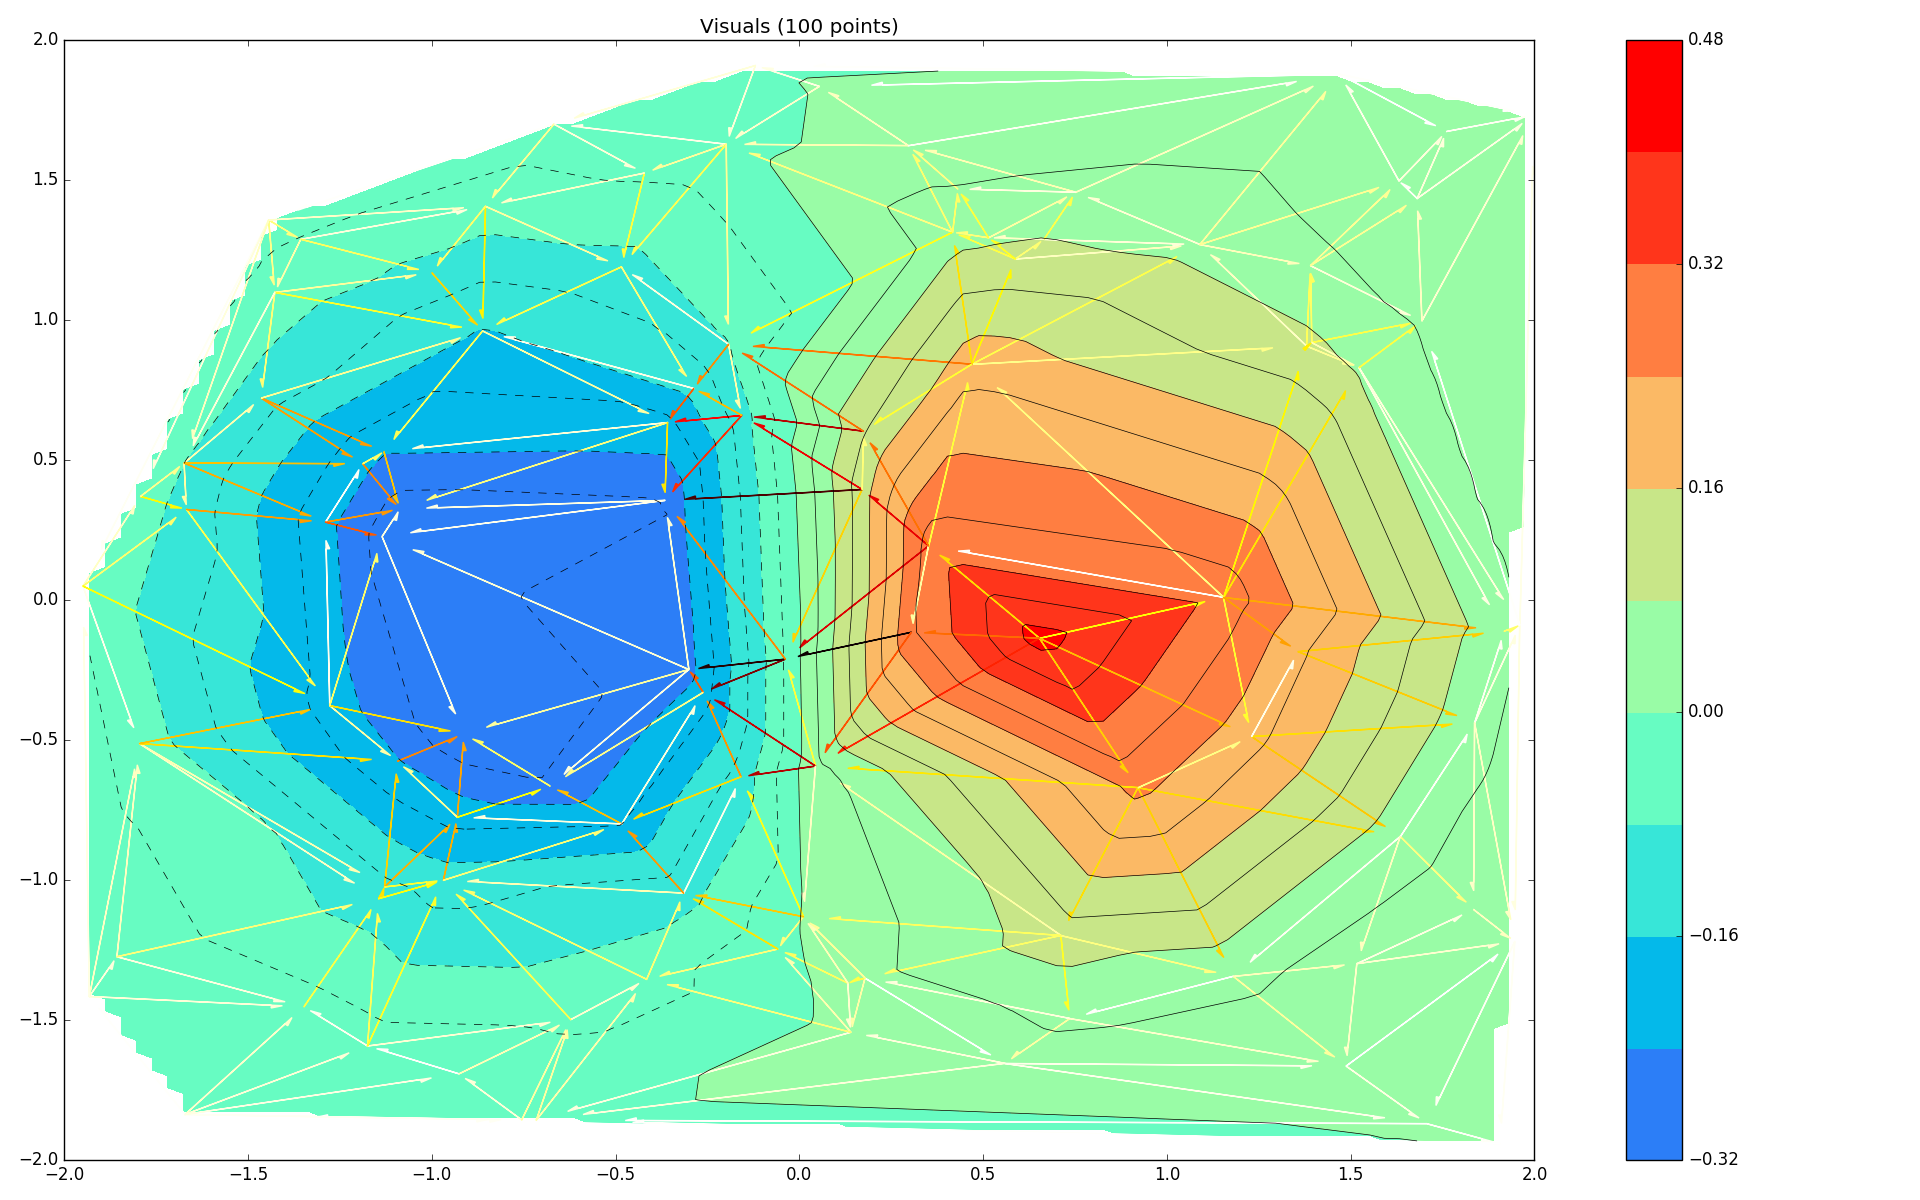
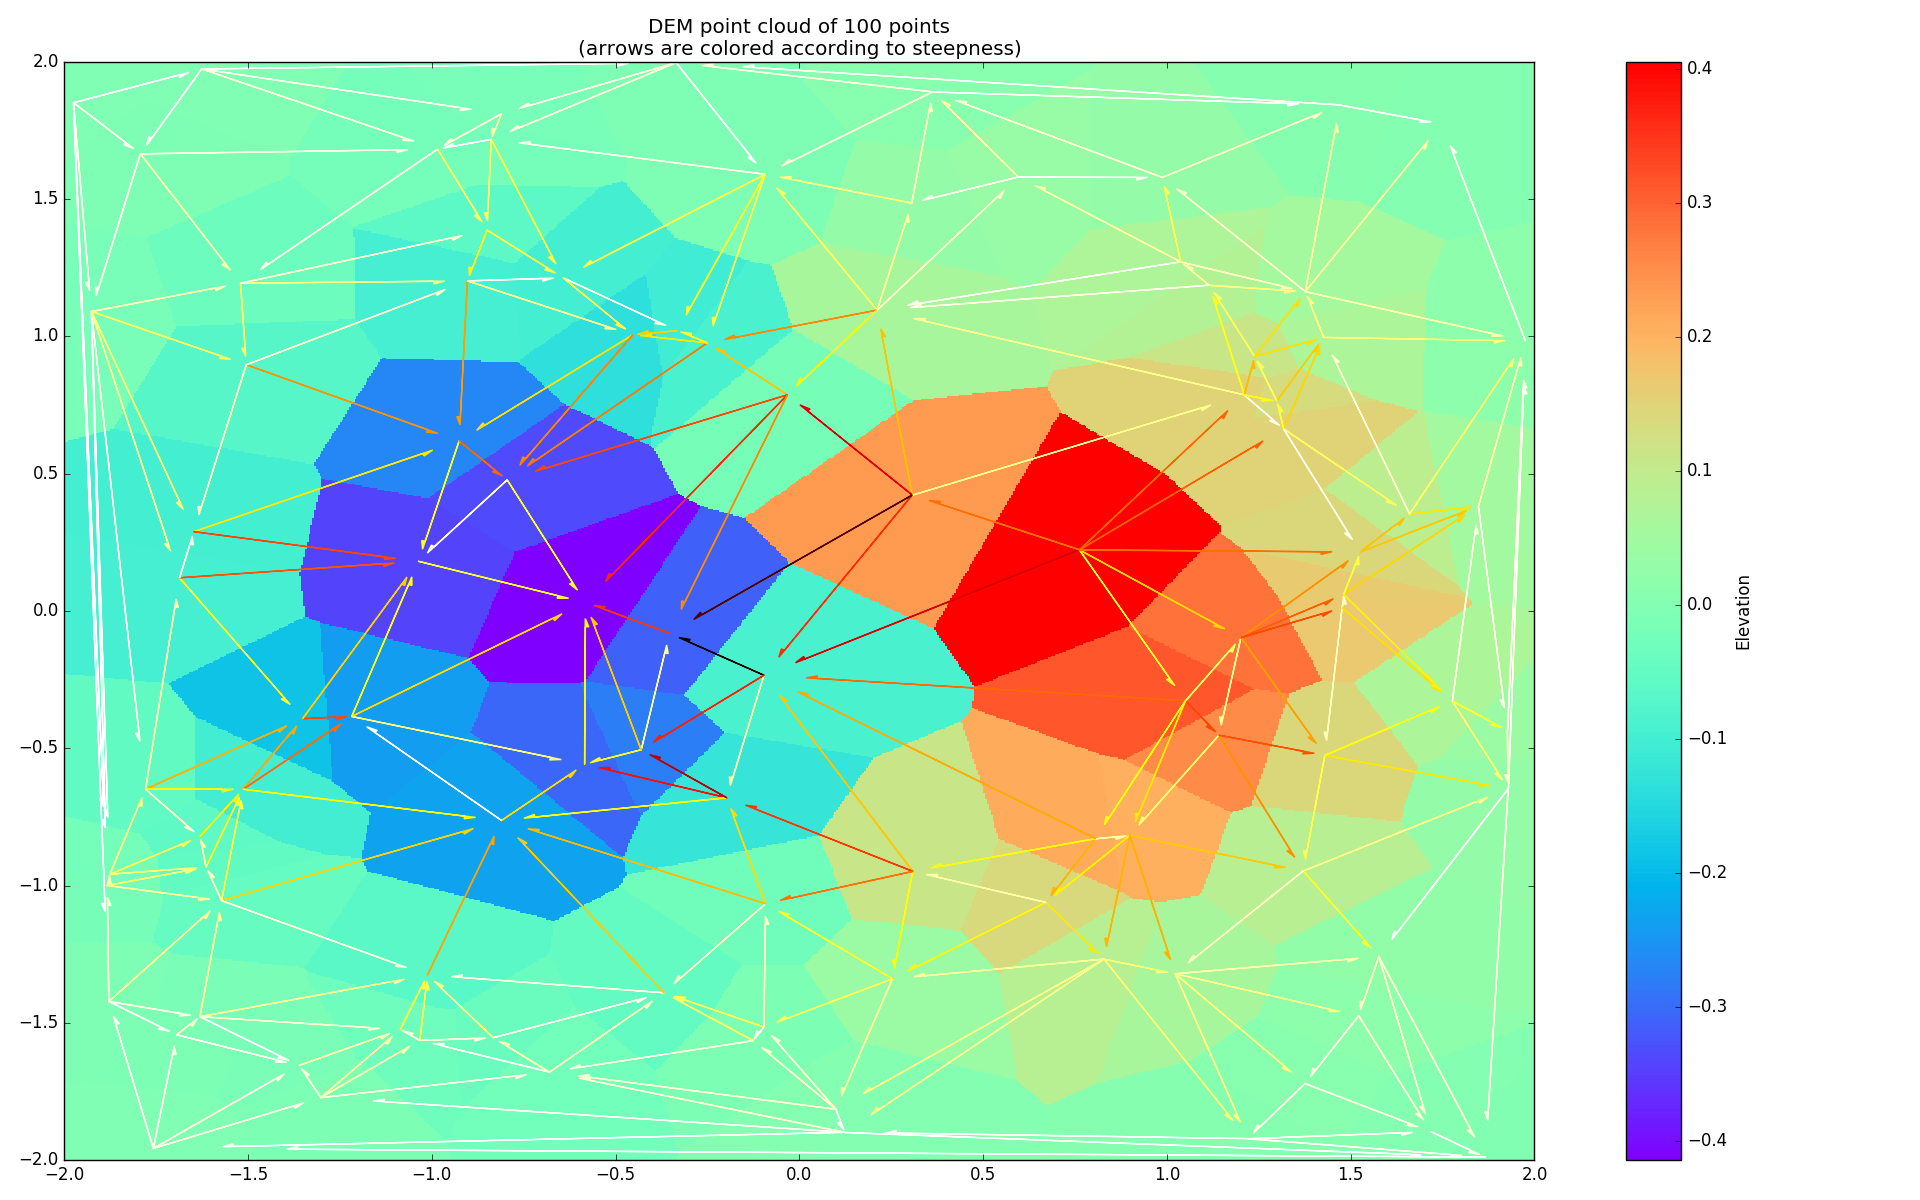
show corresponding voronoi cells

diff --git a/visuals.py b/visuals.py
@@ -1,40 +1,41 @@
 import sys
 from numpy.random import uniform, seed
-from matplotlib.mlab import griddata
+#from matplotlib.mlab import griddata
+from scipy.interpolate import griddata
 import matplotlib.pyplot as plt
 import matplotlib.colors as colors
 import matplotlib.cm as cmx
 import numpy as np
-from scipy.spatial import Delaunay
+from scipy.spatial import Delaunay, Voronoi, voronoi_plot_2d
 from DemNets import *
 
 norm  = colors.Normalize(vmin = 0, vmax = 1)
 sccm = cmx.ScalarMappable(norm = norm, cmap = plt.cm.hot_r)
+cmap = plt.cm.rainbow
 
 # point cloud data
 #seed(0)
 npts = 100
-x = uniform(-2, 2, npts)
-y = uniform(-2, 2, npts)
+pts = uniform(-2, 2, (npts, 2))
+x, y = pts[:,0], pts[:,1]
 z = x*np.exp(-x**2 - y**2)
-tri = Delaunay(np.transpose((x, y)))
+tri = Delaunay(pts)
 net = FlowNetwork(z, tri.simplices.astype('uint32'))
 slp = Slopes(x, y, z, net)
 slp = slp.astype('float') / slp.max()
 
 # grid data for visualisation
-xi = np.linspace(-2.1, 2.1, 100)
-yi = np.linspace(-2.1, 2.1, 200)
-zi = griddata(x, y, z, xi, yi, interp = 'linear')
+xi, yi = np.mgrid[-2:2:800j, -2:2:800j]
+zi = griddata(pts, z, (xi, yi), method = 'nearest')
 zimax = abs(zi).max()
 
 # figure
 plt.figure(1, (19.2, 12))
-plt.contour(xi, yi, zi, 20, linewidths = 0.5, colors = 'k')
-plt.contourf(xi, yi, zi, 10, cmap = plt.cm.rainbow,
-             vmax=zimax, vmin=-zimax)
-plt.colorbar()
-#plt.scatter(x, y, marker = 'o', c = 'b', s = 5)
+plt.imshow(zi.T, interpolation = 'nearest',
+           cmap = cmap, origin = 'lower',
+           aspect = 'auto', extent = [-2,2,-2,2])
+cb = plt.colorbar()
+cb.set_label('Elevation')
 
 for i in xrange(npts):
     for k in xrange(net[i], net[i+1]):
@@ -45,8 +46,6 @@ for i in xrange(npts):
                   length_includes_head = True, shape = 'left',
                   color = sccm.to_rgba(slp[k]))
 
-plt.xlim(-2, 2)
-plt.ylim(-2, 2)
-plt.title('Visuals (%d points)' % npts)
+plt.title('DEM point cloud of %i points\n(arrows are colored according to steepness)' % npts)
 plt.tight_layout()
 plt.savefig('%s.png' % sys.argv[0][:-3])
